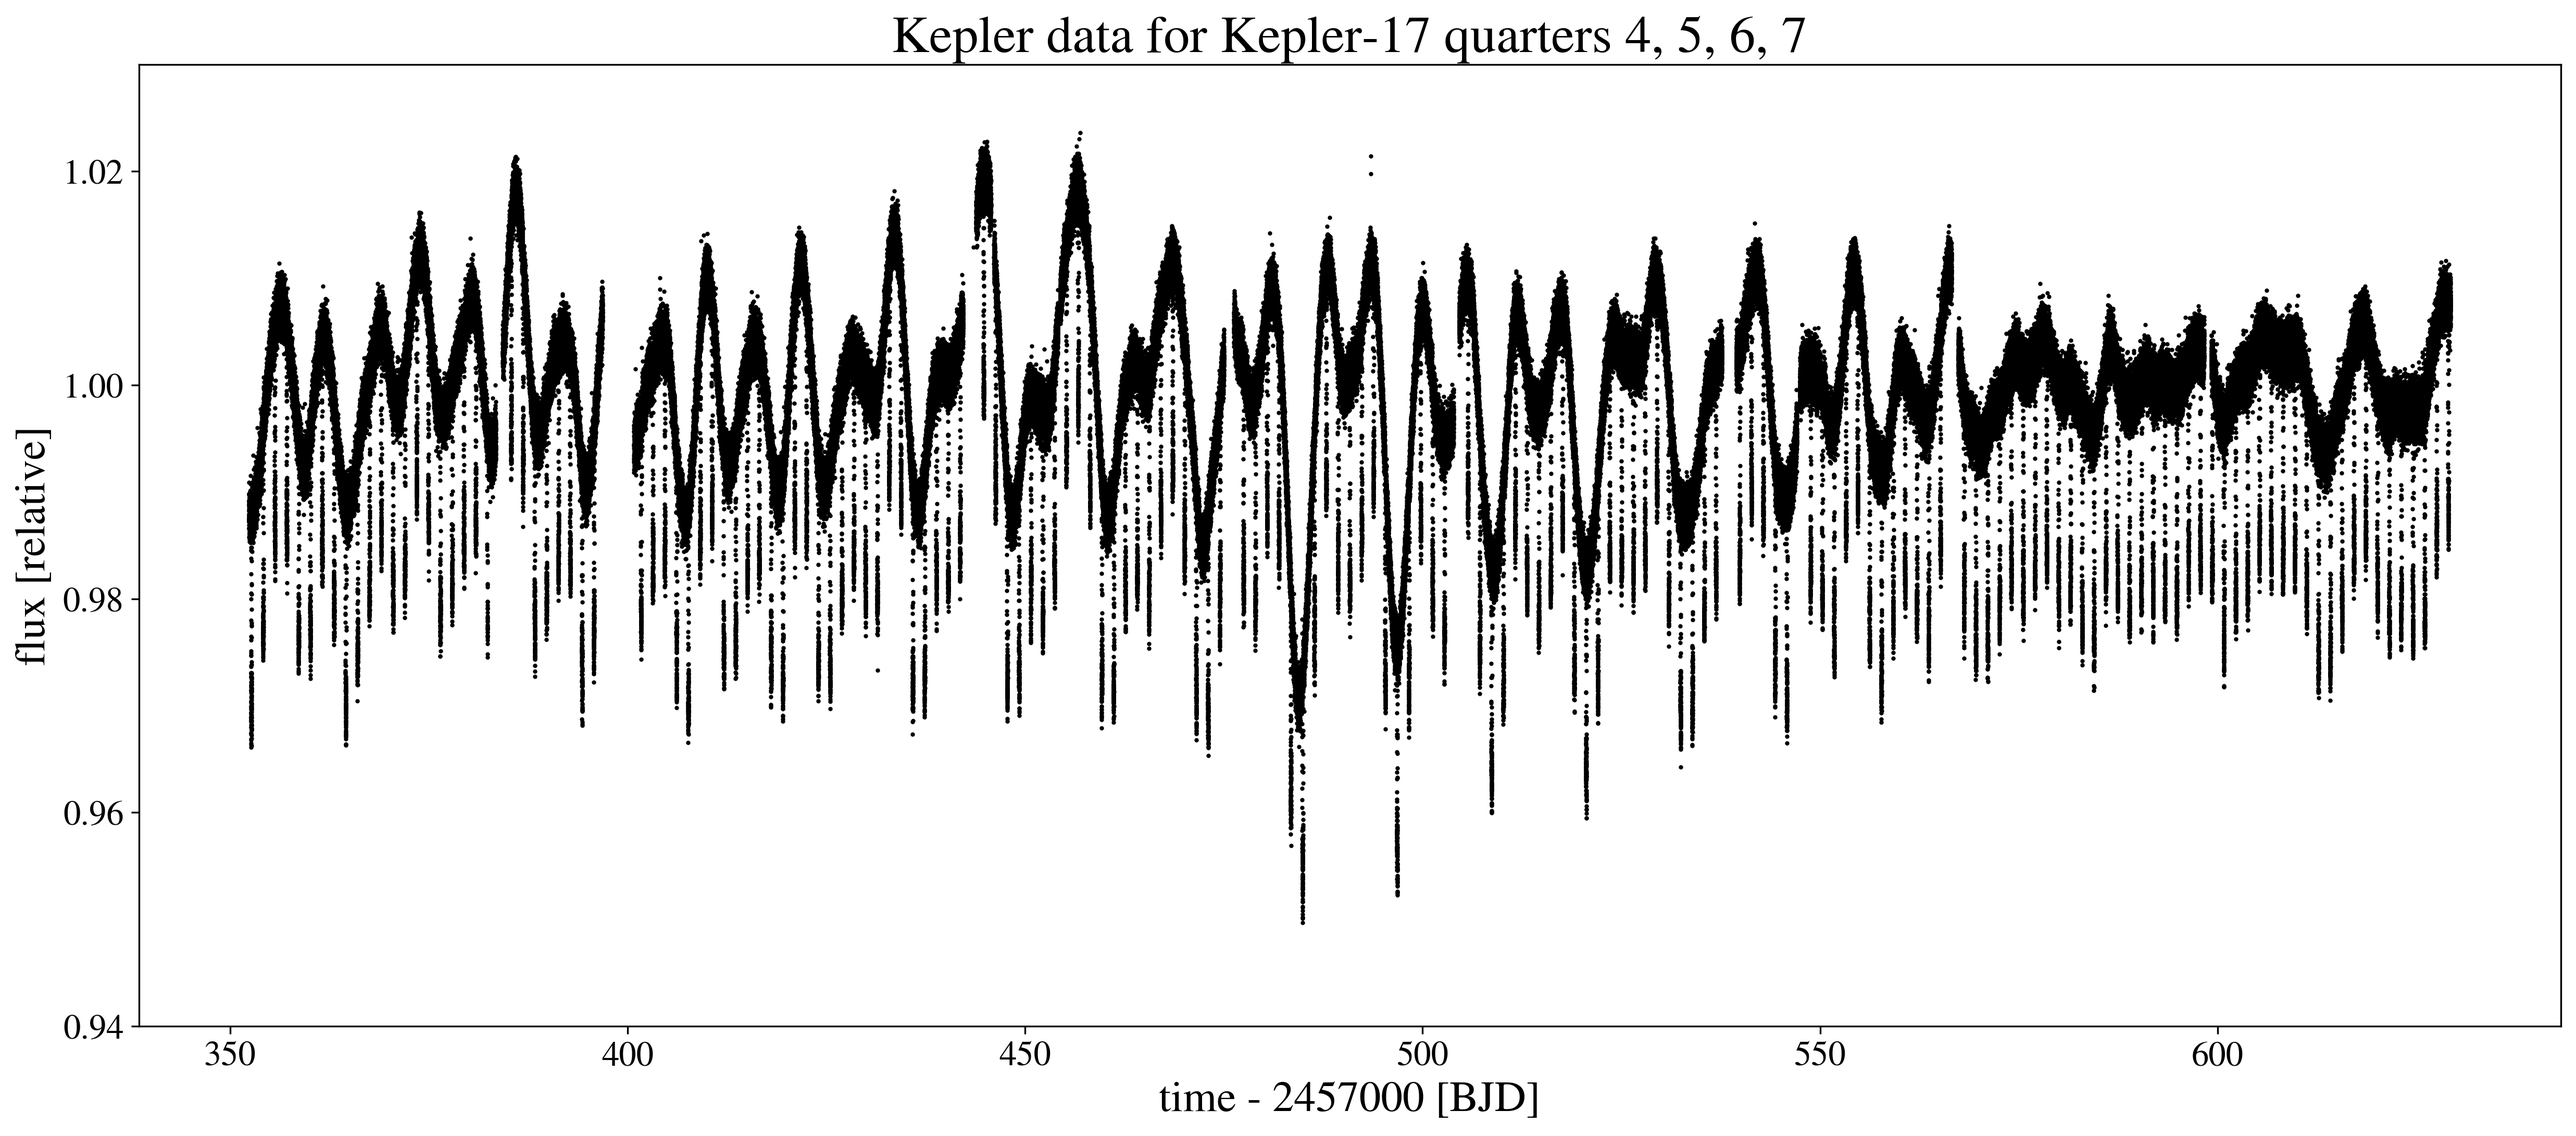
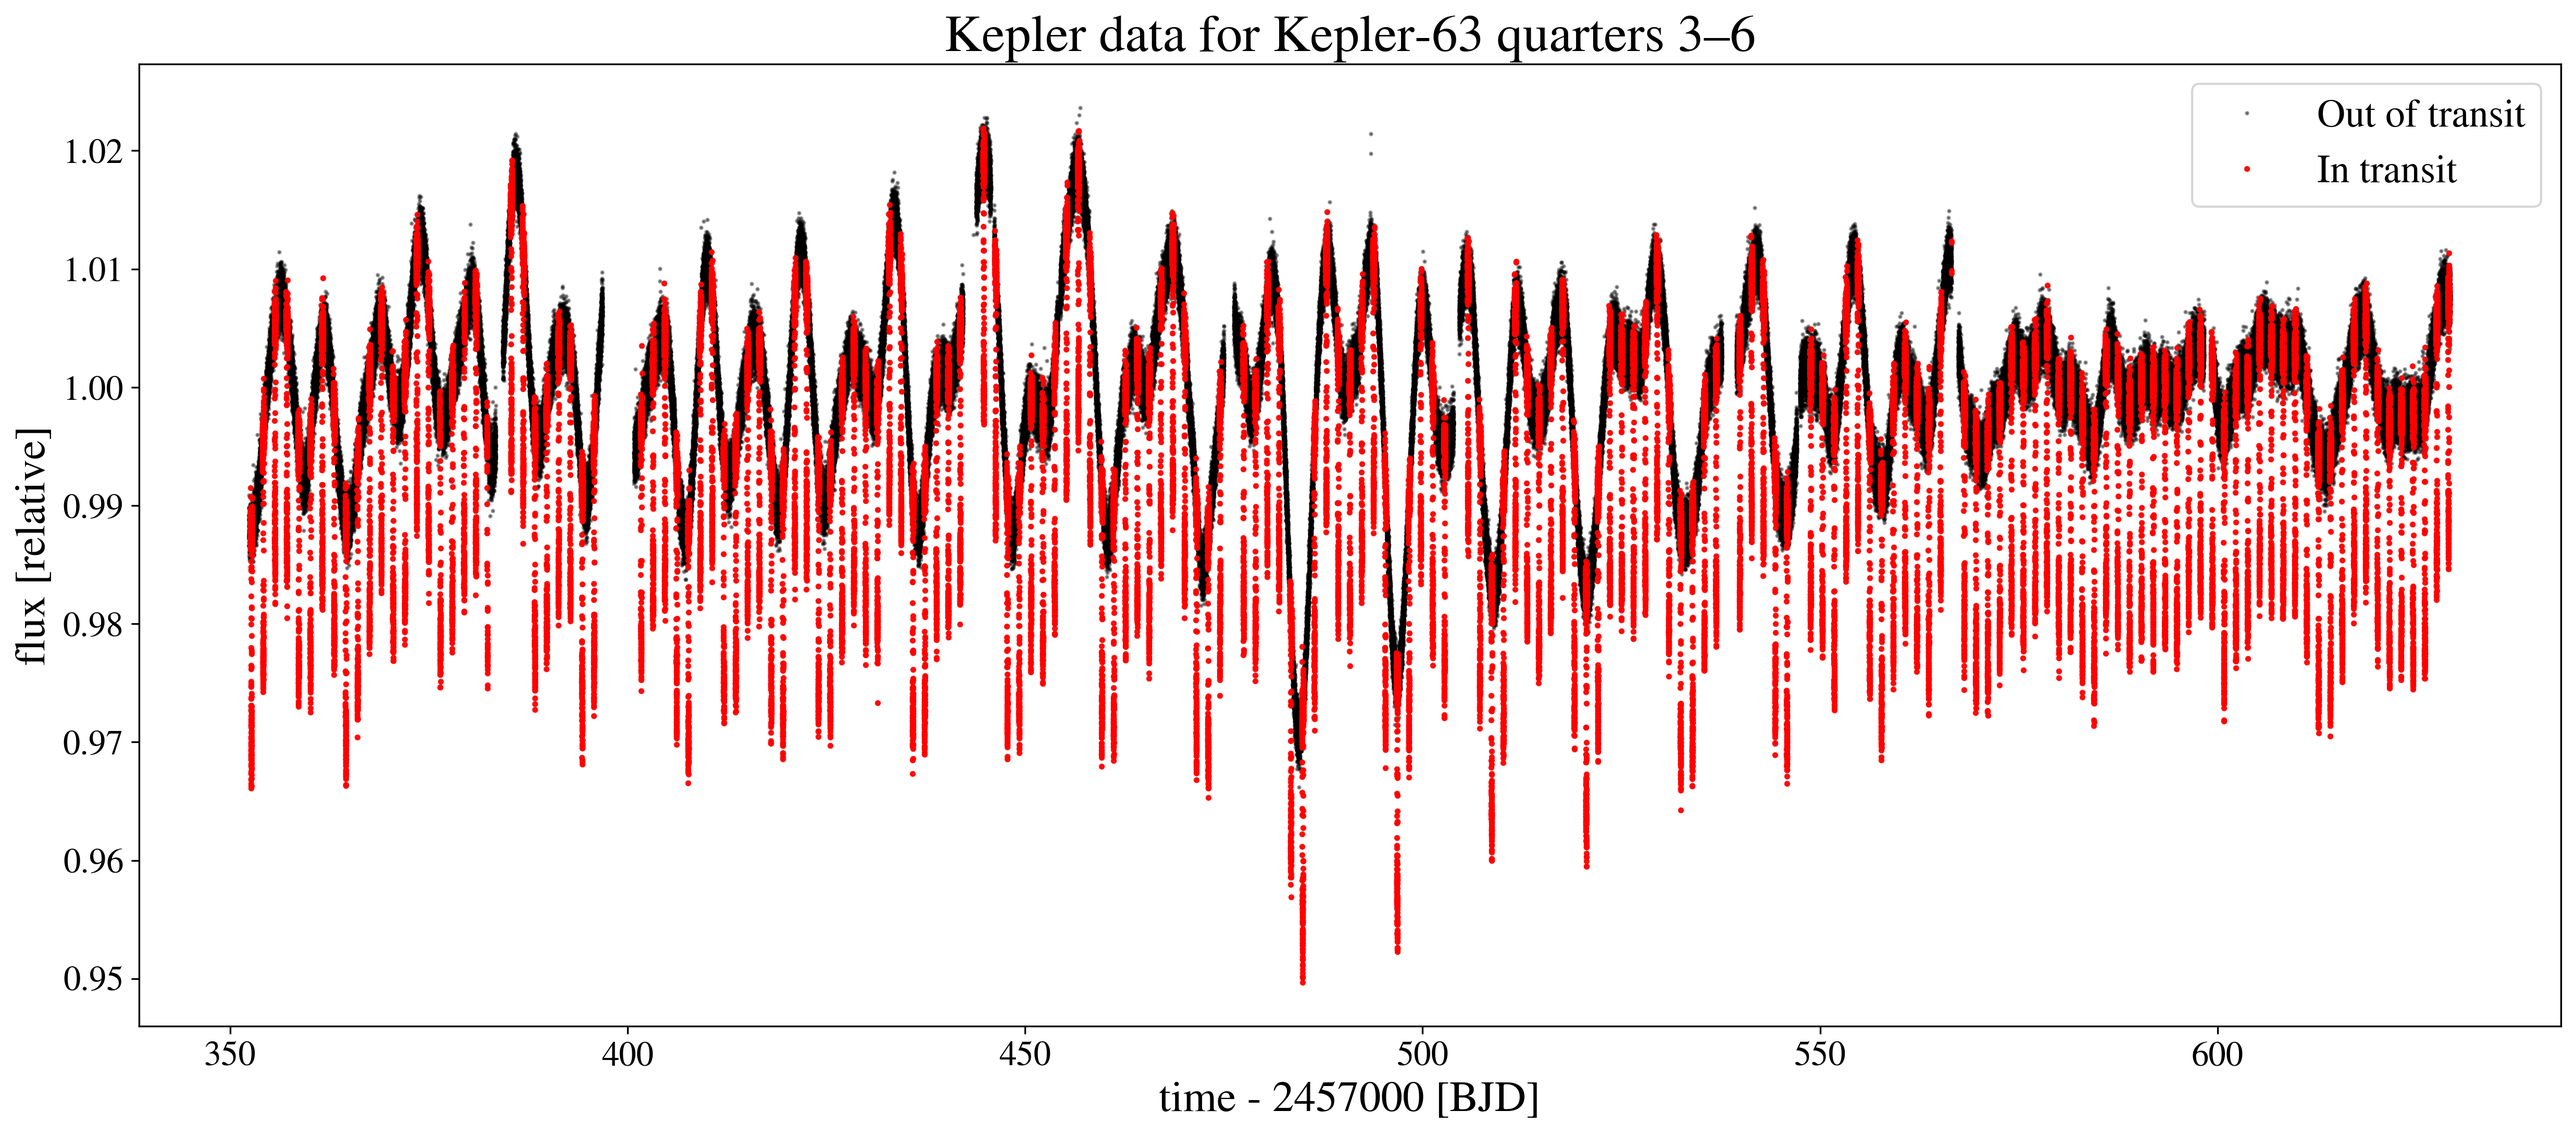
referee comments

diff --git a/src/tex/ms.tex b/src/tex/ms.tex
@@ -219,8 +219,8 @@ across all epochs confirms the robustness of our planetary parameter determinati
     \begin{centering}
         \includegraphics[width=\linewidth]{figures/result_kepler63lc1.png}
         \caption{Transit photometry and model fits for Kepler-63. Top: Complete light curve showing eight 
-        detected transits over 80 days of observations. Orange line shows detrended photometry; black points represent 
-        binned model averages of 200 samples. Bottom panels: Individual transit events with observed 
+        detected transits over 80 days of observations. Black points show binned detrended photometry; orange lines represent 
+        model averages of 200 samples. Bottom panels: Individual transit events with observed 
         photometry (grey points with error bars) and the average model across 200 samples (purple lines) with $1\sigma$ uncertainty. 
         Model parameters were determined through simultaneous fitting of all transits and the rotational modulation.}
         \label{fig:kepler63-results}
@@ -430,10 +430,9 @@ in this system provides exceptional constraints on the rotational evolution of s
 \begin{figure*}[hbt!]
     % \script{experiment-kepler17-result.py}
     \begin{centering}
-        \includegraphics[width=\linewidth]{figures/result_kepler17lc.png}
+        \includegraphics[width=\linewidth]{figures/result_kepler17lc1.png}
         \caption{Transit photometry and model fits for Kepler-17. Top: Light curve segment showing frequent transit events 
-        with orange line representing detrended photometry and black points showing binned model averages 
-        from 200 samples. Bottom panels: Individual transit events with observed photometry (grey points with error bars) 
+        with black points representing detrended photometry and orange line showing 200 samples from the model. Bottom panels: Individual transit events with observed photometry (grey points with error bars) 
         and average model fits (purple lines) with $1\sigma$ uncertainty bands. The excellent fit quality despite the short 
         orbital period and moderate stellar activity demonstrates the robustness of our joint modeling approach.}
         \label{fig:kepler17-results}
@@ -599,7 +598,7 @@ apparent bimodality in $\phi$ by construction. The symmetry in the latitude dist
 \cite{Luger2021b}, where they adopted a symmetric Beta distribution in $\cos\phi$ as a prior on spot latitudes. 
 Disk-integrated photometry cannot reliably determine whether surface features lie
 in the northern or southern hemisphere, so any inferred hemispheric asymmetry would
-be dominated by the prior rather than by the data. 
+be dominated by the prior rather than by the data.
 
 The inclination-obliquity degeneracy, though, is a \textit{physical} degeneracy in
 the light-curve inversion problem arising because the stellar inclination and
@@ -624,7 +623,7 @@ model-insensitive constraints. In particular:
     characteristic low-latitude rotational modulations. The absence of such features
     indicates a lack of equatorial activity.
 
-    \item Rotational modulation strongly constrains the longitudinal sizes
+    \item Rotational and transit modulation strongly constrains the longitudinal sizes
     of active regions, and these constraints remain robust even when the latitude
     distribution is symmetrized.
 
